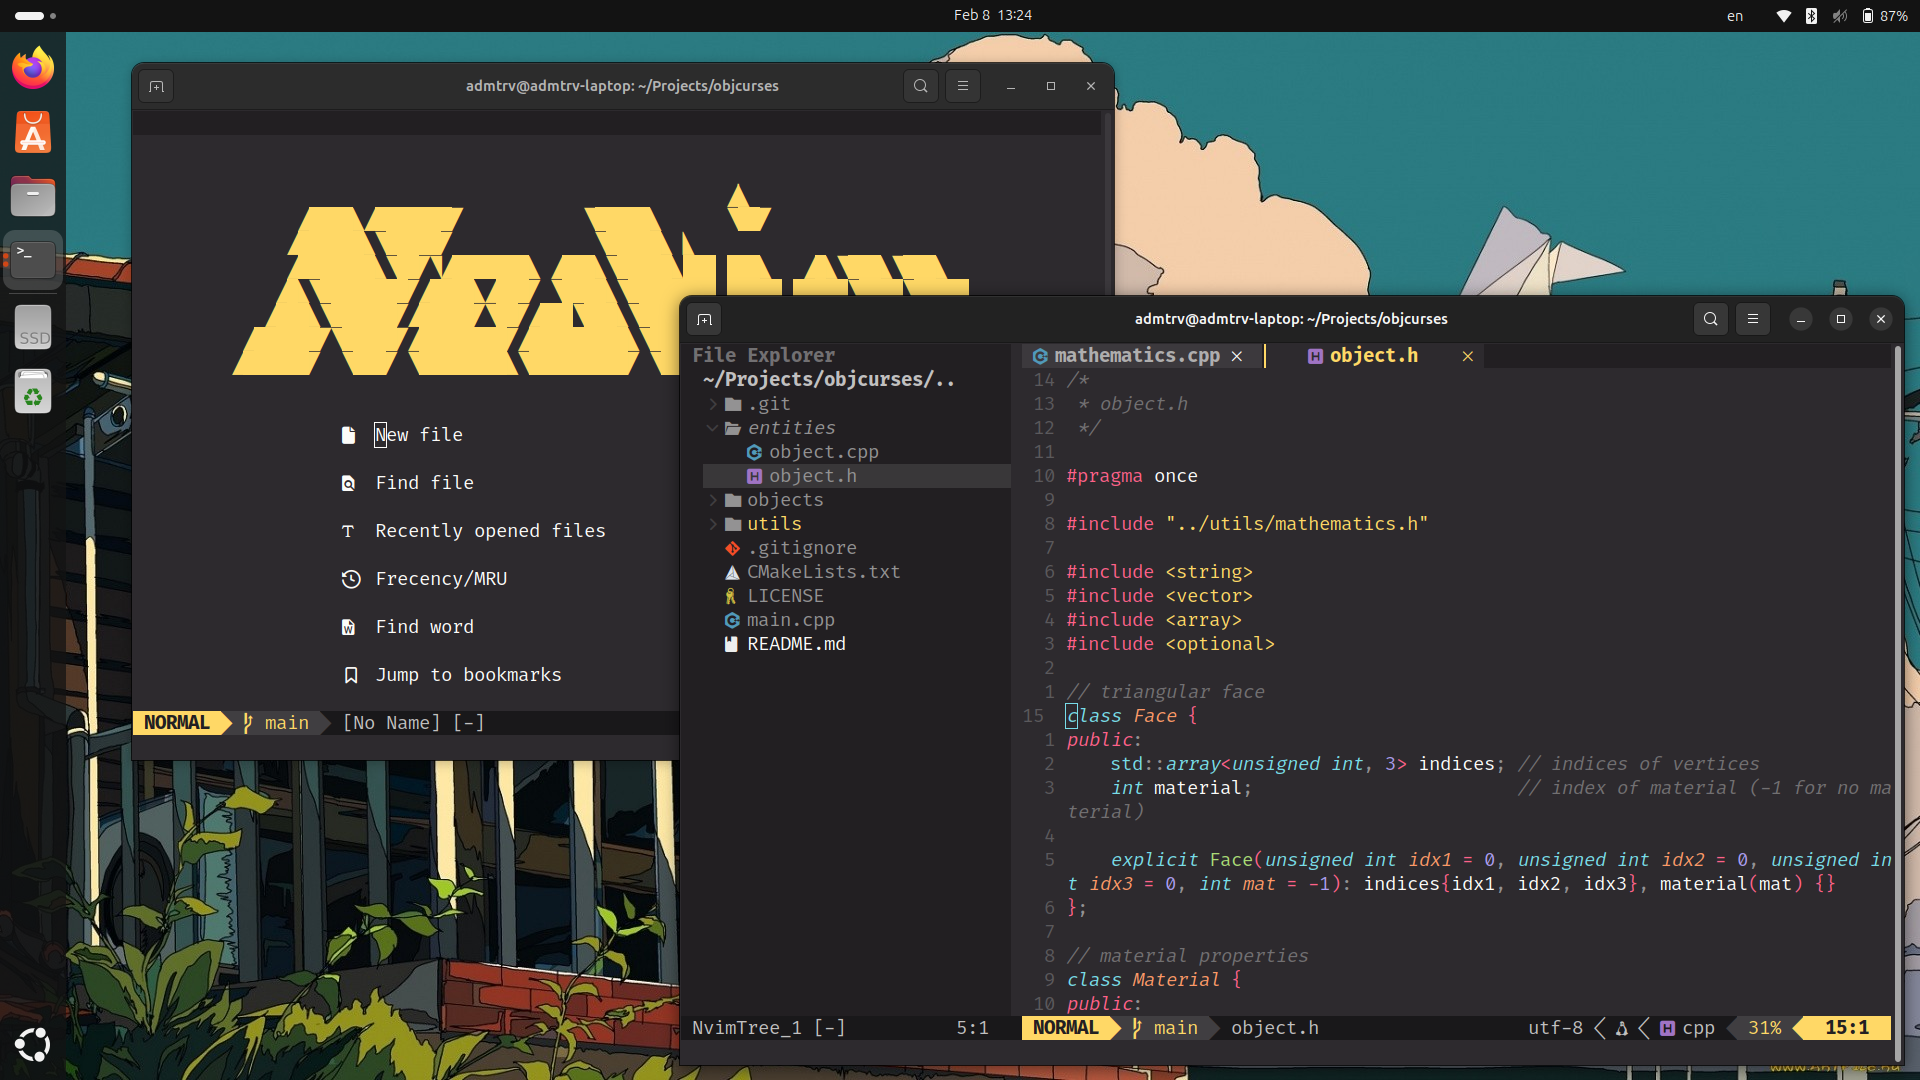
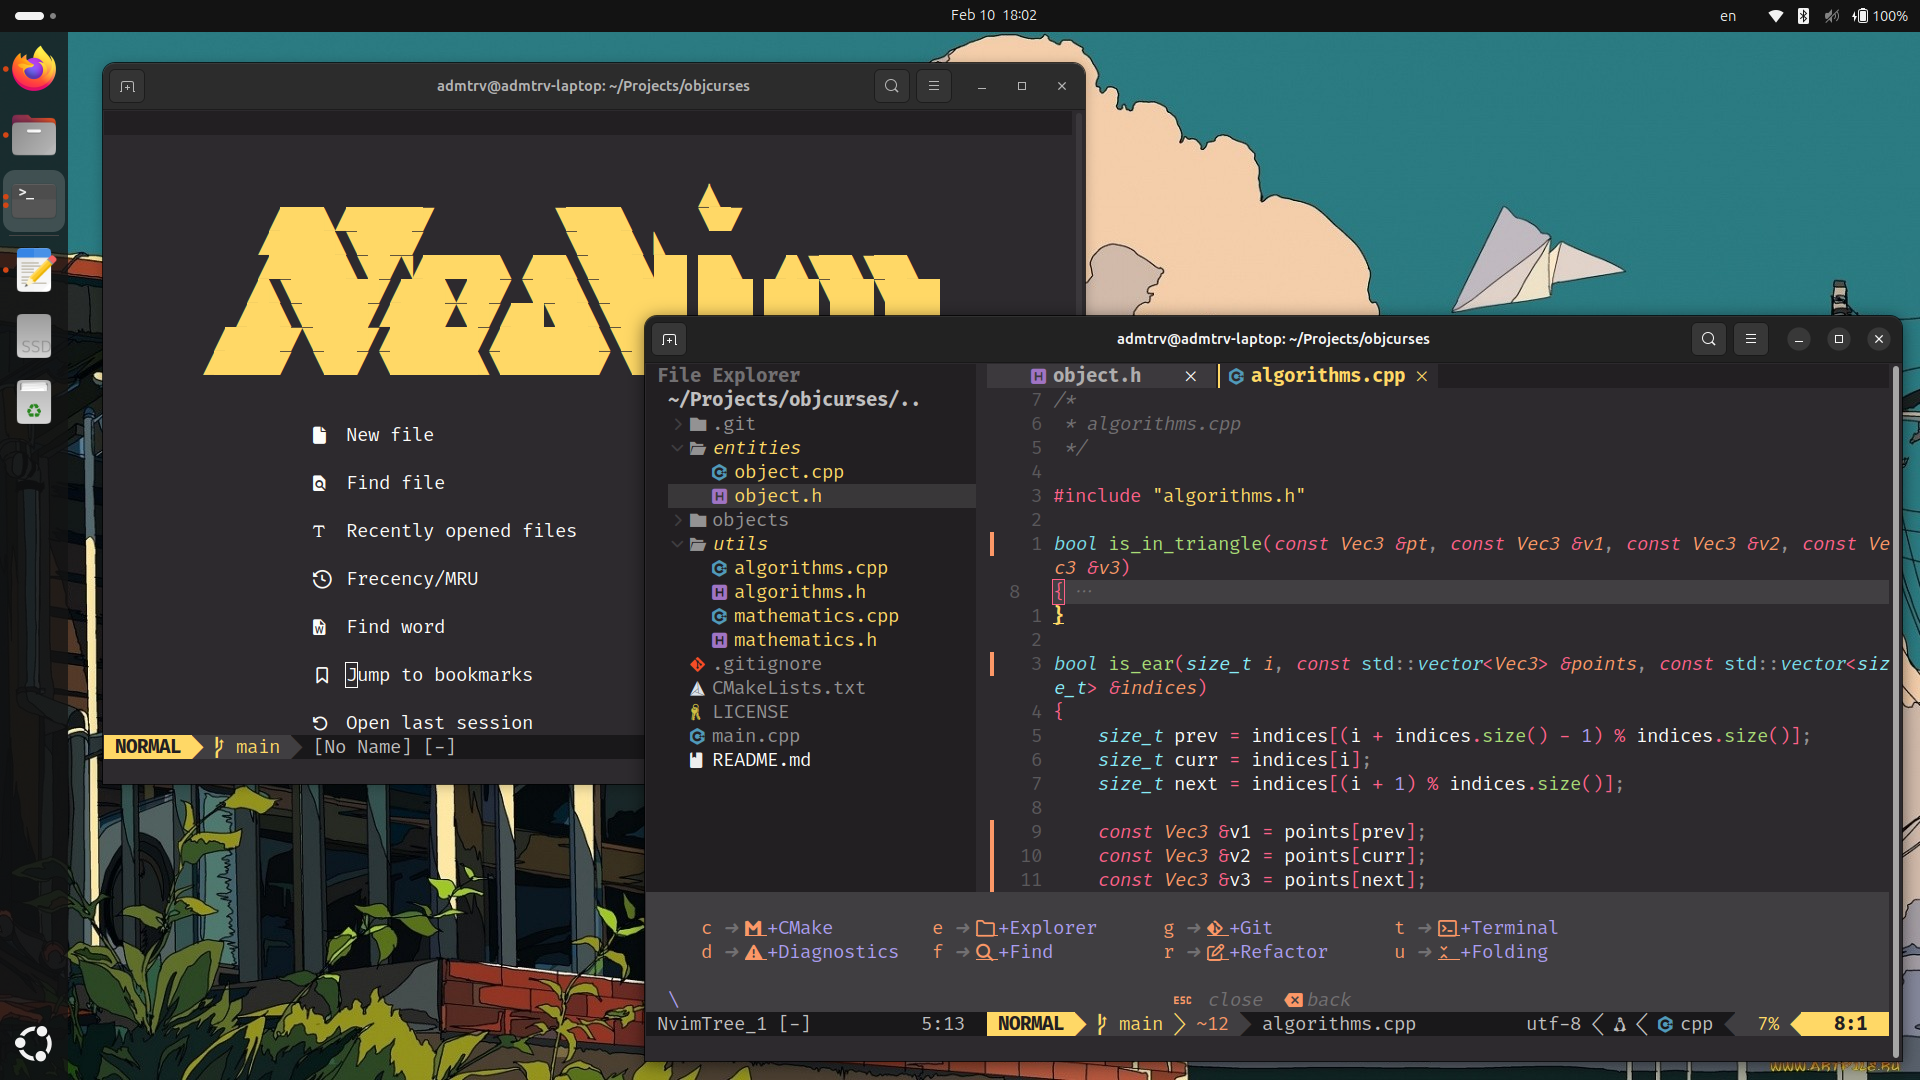
feat: add code folding and shortcut hints

diff --git a/README.md b/README.md
@@ -9,6 +9,8 @@ This repository contains my personal, lightweight Neovim configuration tailored 
 - Bottom status bar 
 - File explorer
 - Top tab bar displaying all open files, each in its own tab
+- Code blocks folding
+- Shortcut help
 
 ---
 
